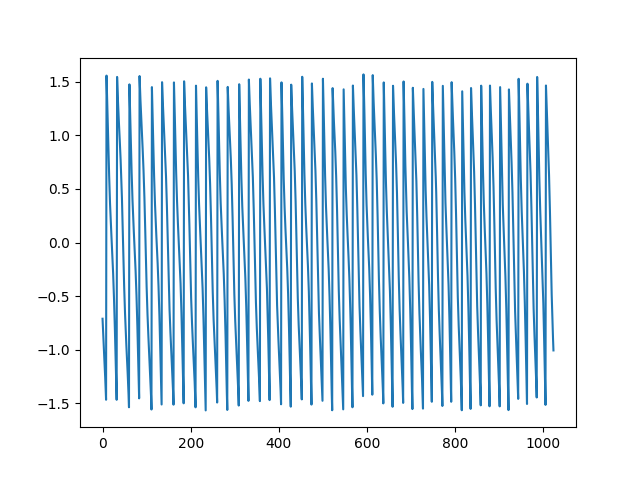
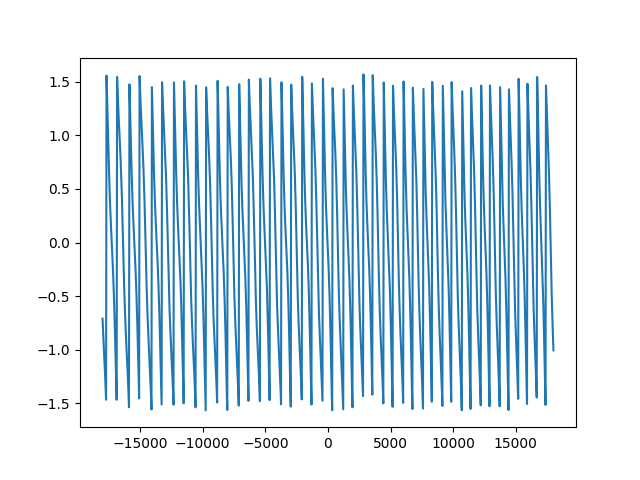
axis

Changed region(s): [[0.5, 0.9062, 0.875, 0.9375], [0.1562, 0.9062, 0.4688, 0.9375]]

diff --git a/Algorithm.py b/Algorithm.py
@@ -105,10 +105,10 @@ eq_r[lr]=np.sqrt(3)*(mat1r[lr]/mat2r[lr])
 #eq_r=np.sqrt(3)*((I1r-I3r)/(2*I2r-I1r-I3r))
 phase_r=np.arctan(eq_r)         #Relative phase calculation
 slicee=phase_r[512,:]
-plt.plot(slicee,extent=[-u,u,-v,v])
+plt.plot(xx,slicee)
 plt.savefig("slicee.png")
 realphase_r=unwraping(slicee)  #Absolute phase calculation
-plt.plot(realphase_r,extent=[-u,u,-v,v])
+plt.plot(xx,realphase_r)
 plt.savefig("unwrappedslicee.png")
 
 #3D object reconstruction
